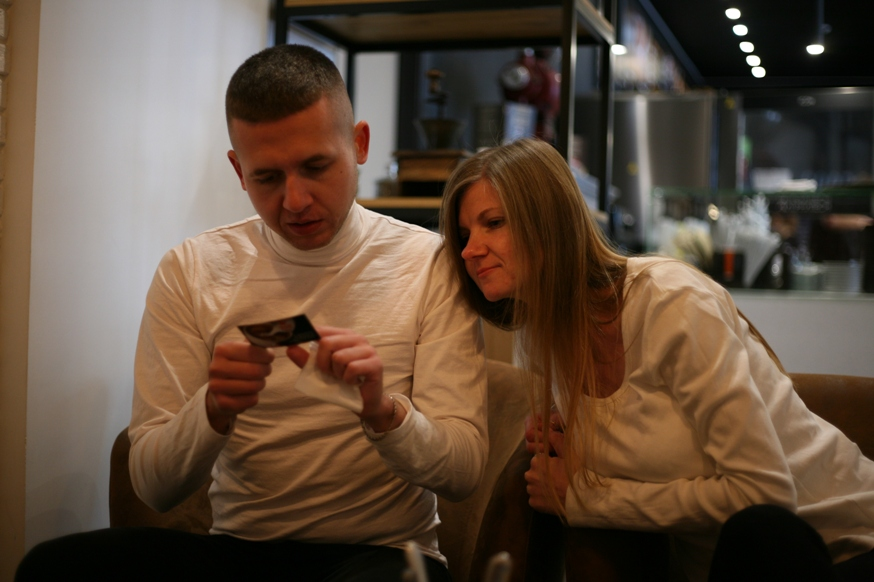
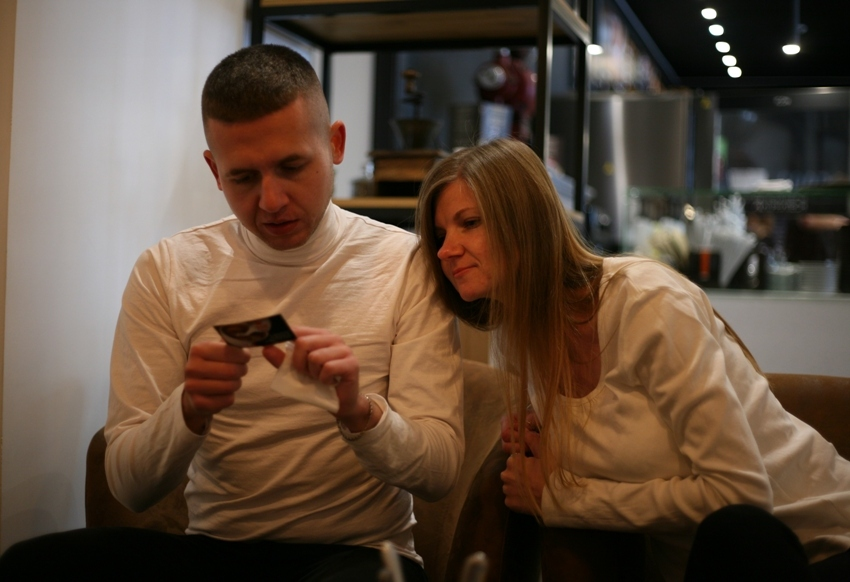
photo's styles

diff --git a/src/components/Portfolio/Landscape/Landscape.jsx b/src/components/Portfolio/Landscape/Landscape.jsx
@@ -46,16 +46,16 @@ const Landscape = () => {
           <img src={img11} alt="img11" />
           <img src={img12} alt="img12" />
           <img src={img13} alt="img13" />
-          <img className={q.gorizontal} src={img14} alt="img14" />
-          <img className={q.gorizontal} src={img15} alt="img15" />
-          <img className={q.gorizontal} src={img16} alt="img16" />
-          <img className={q.gorizontal} src={img17} alt="img17" />
-          <img className={q.gorizontal} src={img18} alt="img18" />
-          <img className={q.gorizontal} src={img19} alt="img19" />
-          <img className={q.gorizontal} src={img20} alt="img20" />
-          <img className={q.gorizontal} src={img21} alt="img21" />
-          <img className={q.gorizontal} src={img22} alt="img22" />
-          <img className={q.gorizontal} src={img23} alt="img23" />
+          <img src={img14} alt="img14" />
+          <img src={img15} alt="img15" />
+          <img src={img16} alt="img16" />
+          <img src={img17} alt="img17" />
+          <img src={img18} alt="img18" />
+          <img src={img19} alt="img19" />
+          <img src={img20} alt="img20" />
+          <img src={img21} alt="img21" />
+          <img src={img22} alt="img22" />
+          <img src={img23} alt="img23" />
         </div>
       </div>
     </div>

diff --git a/src/components/Portfolio/Outdoor/Outdoor.jsx b/src/components/Portfolio/Outdoor/Outdoor.jsx
@@ -36,10 +36,10 @@ const Outdoor = () => {
           <img src={img9} alt="img9" />
           <img src={img10} alt="img10" />
           <img src={img11} alt="img11" />
-          <img className={q.gorizontal} src={img12} alt="img12" />
-          <img className={q.gorizontal} src={img13} alt="img13" />
-          <img className={q.gorizontal} src={img14} alt="img14" />
-          <img className={q.gorizontal} src={img15} alt="img15" />
+          <img src={img12} alt="img12" />
+          <img src={img13} alt="img13" />
+          <img src={img14} alt="img14" />
+          <img src={img15} alt="img15" />
         </div>
       </div>
     </div>

diff --git a/src/components/Portfolio/LoveStory/LoveStory.jsx b/src/components/Portfolio/LoveStory/LoveStory.jsx
@@ -20,10 +20,10 @@ const LoveStory = () => {
           <img src={img1} alt="img1" />
           <img src={img2} alt="img2" />
           <img src={img3} alt="img3" />
-          <img className={q.gorizontal} src={img4} alt="img4" />
-          <img className={q.gorizontal} src={img5} alt="img5" />
-          <img className={q.gorizontal} src={img6} alt="img6" />
-          <img className={q.gorizontal} src={img7} alt="img7" />
+          <img src={img4} alt="img4" />
+          <img src={img5} alt="img5" />
+          <img src={img6} alt="img6" />
+          <img src={img7} alt="img7" />
         </div>
       </div>
     </div>

diff --git a/src/components/Portfolio/Portrait/Portrait.jsx b/src/components/Portfolio/Portrait/Portrait.jsx
@@ -44,8 +44,8 @@ const Portrait = () => {
           <img src={img14} alt="img14" />
           <img src={img15} alt="img15" />
           <img src={img16} alt="img16" />
-          <img className={q.gorizontal} src={img17} alt="img17" />
-          <img className={q.gorizontal} src={img18} alt="img18" />
+          <img src={img17} alt="img17" />
+          <img src={img18} alt="img18" />
         </div>
       </div>
     </div>

diff --git a/src/components/Portfolio/Business/Business.jsx b/src/components/Portfolio/Business/Business.jsx
@@ -20,8 +20,8 @@ const Business = () => {
           <img src={img2} alt="img2" />
           <img src={img3} alt="img3" />
           <img src={img4} alt="img4" />
-          <img className={q.gorizontal} src={img5} alt="img5" />
-          <img className={q.gorizontal} src={img6} alt="img6" />
+          <img src={img5} alt="img5" />
+          <img src={img6} alt="img6" />
         </div>
       </div>
     </div>

diff --git a/src/components/Portfolio/Architecture/Architecture.jsx b/src/components/Portfolio/Architecture/Architecture.jsx
@@ -27,7 +27,7 @@ const Architecture = () => {
           <img src={img6} alt="img6" />
           <img src={img7} alt="img7" />
           <img src={img8} alt="img8" />
-          <img className={q.gorizontal} src={img9} alt="img9" />
+          <img src={img9} alt="img9" />
         </div>
       </div>
     </div>

diff --git a/src/components/Portfolio/PhotoStyles.module.css b/src/components/Portfolio/PhotoStyles.module.css
@@ -37,10 +37,5 @@
   padding: 5px 5px 0;
   overflow: hidden;
   cursor: pointer;
-}
-
-.photoItem img.gorizontal {
-  width: 380px;
-  height: 250px;
-  vertical-align: top;
+  object-fit: cover; 
 }
